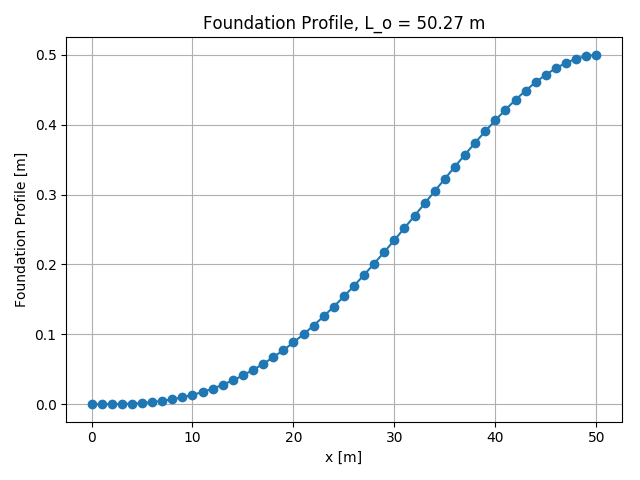
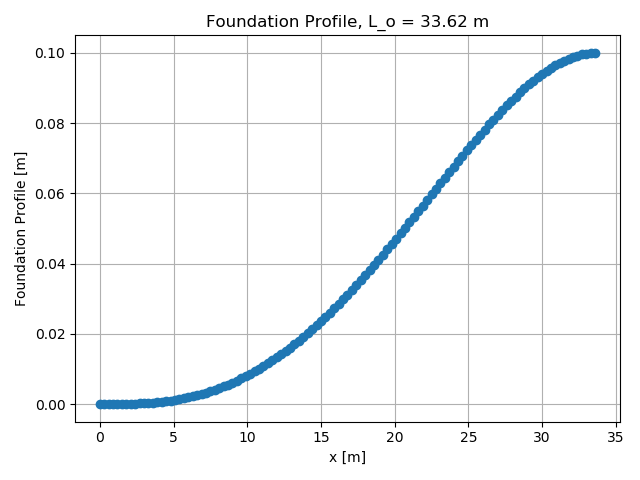
added ramberg and general modules and refactored stiffness processing

diff --git a/uhb/uhb.py b/uhb/uhb.py
@@ -26,6 +26,36 @@ def plot_stiffnesses(burial_depths, results, soil_type):
     fig.savefig(f"outputs/{soil_type}.png")
 
 
+def write_stiffnesses_to_file(results):
+    with open(f"outputs/stiffnesses.txt", "w") as o:
+        o.write(f"STIFFNESSES\n")
+        for soil in results:
+            o.write(f"\nSoil type: {soil}\n")
+            o.write(f"{'-'*(11+len(soil))}\n\n")
+            for burial_depth in results[soil]:
+                o.write(f"Burial depth: {burial_depth:.1f} m\n\n")
+                o.write("Axial\n")
+                T_u = results[soil][burial_depth]["T_u"]
+                delta_t = results[soil][burial_depth]["delta_t"]
+                K_a = results[soil][burial_depth]["K_a"]
+                o.write(f"{T_u:.6f}, {delta_t:.6f}, {K_a:.6f}\n")
+                o.write("Lateral\n")
+                P_u = results[soil][burial_depth]["P_u"]
+                delta_p = results[soil][burial_depth]["delta_p"]
+                K_l = results[soil][burial_depth]["K_l"]
+                o.write(f"{P_u:.6f}, {delta_p:.6f}, {K_l:.6f}\n")
+                o.write("Vertical Uplift\n")
+                Q_u = results[soil][burial_depth]["Q_u"]
+                delta_qu = results[soil][burial_depth]["delta_qu"]
+                K_vu = results[soil][burial_depth]["K_vu"]
+                o.write(f"{Q_u:.6f}, {delta_qu:.6f}, {K_vu:.6f}\n")
+                o.write("Vertical Bearing\n")
+                Q_d = results[soil][burial_depth]["Q_d"]
+                delta_qd = results[soil][burial_depth]["delta_qd"]
+                K_vb = results[soil][burial_depth]["K_vb"]
+                o.write(f"{Q_d:.6f}, {delta_qd:.6f}, {K_vb:.6f}\n\n")
+
+
 if __name__ == "__main__":
     D = 0.1731
     f = 0.6
@@ -93,18 +123,20 @@ if __name__ == "__main__":
                 "K_vb": Q_d / delta_qd,
             }
 
-        print(
-            soil.DepthEquilibrium(
-                soils[soil_case]["phi_s"],
-                soils[soil_case]["c"],
-                D,
-                soils[soil_case]["gamma"],
-                soil_case,
-            )
-        )
+    write_stiffnesses_to_file(results)
 
-    with open("outputs/soil_stiffnesses.json", "w") as outfile:
-        json.dump(results, outfile, indent=4)
+# print(
+#     soil.DepthEquilibrium(
+#         soils[soil_case]["phi_s"],
+#         soils[soil_case]["c"],
+#         D,
+#         soils[soil_case]["gamma"],
+#         soil_case,
+#     )
+# )
 
-    plot_stiffnesses(burial_depths, results, "soft clay")
-    plot_stiffnesses(burial_depths, results, "dense sand")
+# with open("outputs/soil_stiffnesses.json", "w") as outfile:
+#     json.dump(results, outfile, indent=4)
+
+# plot_stiffnesses(burial_depths, results, "soft clay")
+# plot_stiffnesses(burial_depths, results, "dense sand")

diff --git a/uhb/imperfection.py b/uhb/imperfection.py
@@ -22,7 +22,7 @@ def foundation_profile(x, delta_f, L_o):
     return delta_f * (x / L_o) ** 3 * (4 - 3 * x / L_o)
 
 
-def plot_wavelength(xs, w_fs):
+def plot_wavelength(xs, w_fs, L_o):
     fig, ax = plt.subplots()
     ax.plot(xs, w_fs, marker="o")
     ax.set_title(f"Foundation Profile, L_o = {L_o:.2f} m")
@@ -30,21 +30,41 @@ def plot_wavelength(xs, w_fs):
     ax.set_ylabel("Foundation Profile [m]")
     ax.grid()
     fig.tight_layout()  # otherwise the right y-label is slightly clipped
-    fig.savefig(f"outputs/foundation_profile.png")
+    fig.savefig("outputs/imperfections/foundation_profile.png")
+
+
+def write_results(profile, delta_f):
+    with open(
+        f"outputs/imperfections/foundation_profile_{delta_f:.1f}m.txt", "w"
+    ) as outfile:
+        for x in profile[::-1]:
+            outfile.write(f"{x[0]:.1f}, {x[1]:.4f}\n")
+
+
+def main(element_length, pipe):
+    E = pipe["E"]
+    I = pipe["I"]
+    W_sub = pipe["W_sub"]
+
+    print("delta_f [m]: L_o [m]")
+
+    for delta_f in np.arange(0.1, 0.6, 0.1):
+
+        L_o = natural_wavelength(E, I, delta_f, W_sub)
+
+        print(f"{delta_f:.1f}: {L_o:.3f}")
+
+        xs = np.arange(0, L_o, element_length)
+        w_fs = [foundation_profile(x, delta_f, L_o) for x in xs]
+
+        profile = np.stack((xs, w_fs), axis=-1)
+
+        plot_wavelength(xs, w_fs, L_o)
+
+        write_results(profile, delta_f)
 
 
 if __name__ == "__main__":
-    E = 2.07e11
-    I = 1.689e-05
-    delta_f = 0.5
-    W_sub = 19.7084
+    pipe = {"E": 2.07e11, "I": 1.689e-05, "W_sub": 19.7084}
 
-    L_o = natural_wavelength(E, I, delta_f, W_sub)
-    print(f"L_o: {L_o:.3f} m")
-
-    xs = np.arange(L_o)
-    w_fs = [foundation_profile(x, delta_f, L_o) for x in xs]
-
-    plot_wavelength(xs, w_fs)
-
-    print(xs)
+    main(0.3, pipe)

diff --git a/tests/test_cli.py b/tests/test_cli.py
@@ -12,17 +12,17 @@ from uhb import cli
 test_inputs = {"D_o": 0.1731, "f": 0.6}
 
 
-def test_command_line_interface():
-    """Test the CLI."""
-    runner = CliRunner()
-    with runner.isolated_filesystem():
-        with open("inputs.json", "w") as f:
-            json.dump(test_inputs, f)
+# def test_command_line_interface():
+#     """Test the CLI."""
+#     runner = CliRunner()
+#     with runner.isolated_filesystem():
+#         with open("inputs.json", "w") as f:
+#             json.dump(test_inputs, f)
 
-        result = runner.invoke(cli.main, ["inputs.json"])
-        assert result.exit_code == 0
-        assert "Calculating soil stiffnesses..." in result.output
+#         result = runner.invoke(cli.main, ["inputs.json"])
+#         assert result.exit_code == 0
+#         assert "Calculating soil stiffnesses..." in result.output
 
-        help_result = runner.invoke(cli.main, ["--help"])
-        assert help_result.exit_code == 0
-        assert "--help  Show this message and exit." in help_result.output
+#         help_result = runner.invoke(cli.main, ["--help"])
+#         assert help_result.exit_code == 0
+#         assert "--help  Show this message and exit." in help_result.output

diff --git a/tests/test_general.py b/tests/test_general.py
@@ -1,0 +1,41 @@
+"""Tests for general module."""
+
+import pytest
+
+from uhb import general
+
+tol = 0.001
+
+test_inputs = {"D": 0.1683, "t": 0.011, "t_coat": 0.0024}
+
+
+def test_area_of_steel():
+    expected = 0.005436
+    assert (
+        abs(general.area_of_steel(test_inputs["D"], test_inputs["t"]) - expected)
+        <= tol * expected
+    )
+
+
+def test_area_of_coating():
+    expected = 0.001287
+    assert (
+        abs(general.area_of_coating(test_inputs["D"], test_inputs["t_coat"]) - expected)
+        <= tol * expected
+    )
+
+
+def test_internal_area():
+    expected = 0.016810
+    assert (
+        abs(general.internal_area(test_inputs["D"], test_inputs["t"]) - expected)
+        <= tol * expected
+    )
+
+
+def test_total_area():
+    expected = 0.023533
+    assert (
+        abs(general.total_area(test_inputs["D"], test_inputs["t_coat"]) - expected)
+        <= tol * expected
+    )

diff --git a/uhb/soil.py b/uhb/soil.py
@@ -173,3 +173,20 @@ def DepthEquilibrium(psi, c, D, gamma, soil):
     Qds.append(F_max)
     Fd = np.stack((penetrations, Qds), axis=-1)
     return Fd
+
+
+def uplift_resistance(soil, gamma, H, D):
+    """Returns drained uplift resistance.
+
+    DNVGL-RP-F114 - Equation (5.5)
+
+    :param soil: str
+    :param gamma: Submerged weight of soil []
+    :param H: Cover height (above pipe) [m]
+    :param D: Outer pipe diameter [m]
+    """
+    resistance_factors = {"loose sand": 0.29, "medium sand": 0.47, "dense sand": 0.62}
+    f = resistance_factors[soil]
+    return gamma * H * D + gamma * D ** 2 * (0.5 - pi / 8) + f * gamma * (
+        H + 0.5 * D
+    ) ** 2

diff --git a/uhb/ramberg.py b/uhb/ramberg.py
@@ -1,0 +1,20 @@
+import numpy as np
+from math import log
+
+def RambergOsgood(SMYS, ey, UTS, eu, E):
+    
+    alpha_ri = E * ey / SMYS - 1
+    N = log((eu- UTS / E)*(E / alpha_ri / SMYS), (UTS / SMYS))
+    def e(s):
+        return s / E + alpha_ri * SMYS / E * (s / SMYS)**N 
+    return [[e(s), s] for s in np.logspace(log(9*SMYS/10,10), log(UTS,10),num=7)]
+
+outer_SMYS = 415e6
+outer_e_SMYS = 0.005
+outer_UTS = 520e6
+outer_e_UTS = 0.215
+outer_E = 2.07e11
+
+ro1 = RambergOsgood(outer_SMYS, outer_e_SMYS, outer_UTS, outer_e_UTS,
+                            outer_E)
+print('RC,11,' + ','.join(str(i) for il in ro1 for i in il) + '\n')

diff --git a/uhb/general.py b/uhb/general.py
@@ -1,0 +1,18 @@
+import math
+
+
+def area_of_steel(D, t):
+    print(D, t)
+    return math.pi * (D ** 2 - (D - 2 * t) ** 2) / 4
+
+
+def area_of_coating(D, t_coat):
+    return math.pi * ((D + 2 * t_coat) ** 2 - D ** 2) / 4
+
+
+def internal_area(D, t):
+    return math.pi * (D - 2 * t) ** 2 / 4
+
+
+def total_area(D, t_coat):
+    return math.pi * (D + 2 * t_coat) ** 2 / 4
